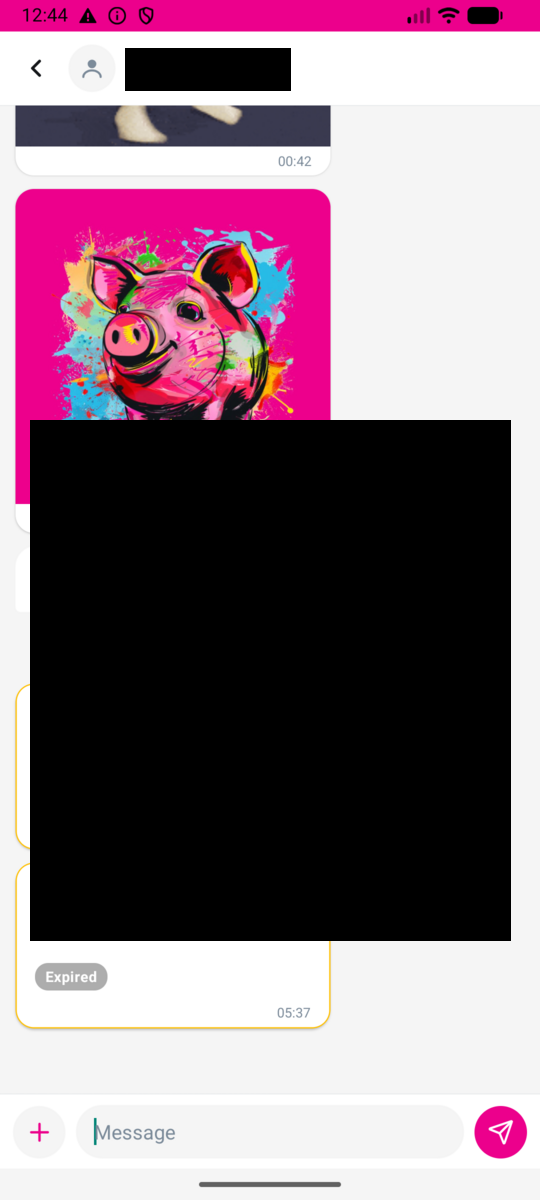
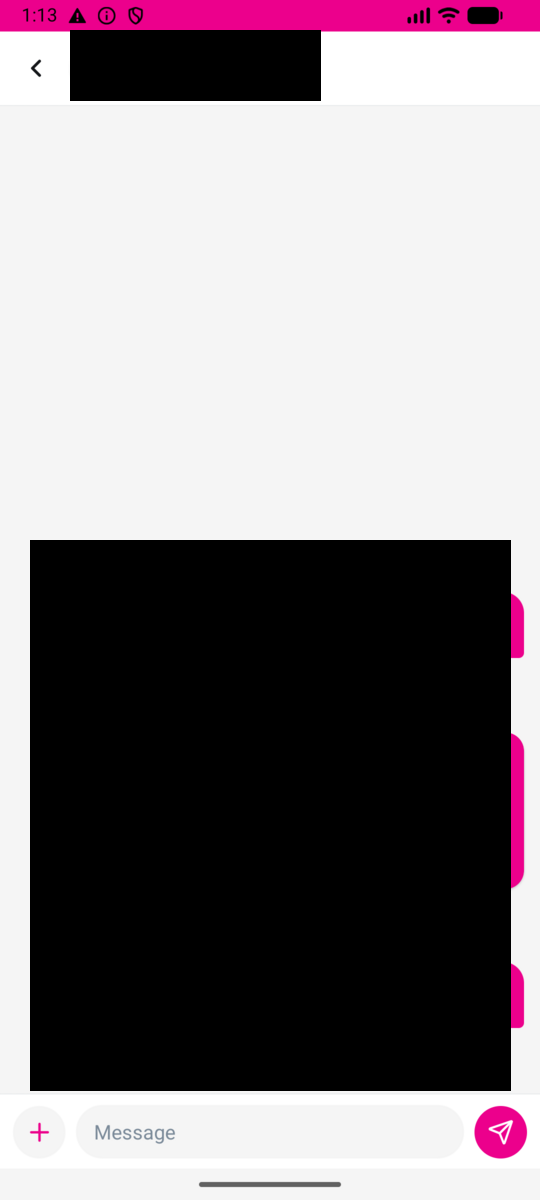
refactor(messaging): panel sits ABOVE composer (no keyboard-height guessing)
Per design feedback: don't guess a default keyboard height. Instead the
attach panel renders ABOVE the text input and is intrinsic-sized (the
4-col grid drives its height). Opening the panel dismisses the keyboard
if it was up; tapping the input closes the panel and the keyboard takes
over again naturally. No `lastKbHeight` cache, no `useReanimatedKeyboardAnimation`,
no spacer math, no first-time-fit jitter.

Layout (inside the existing KeyboardStickyView):

  [ AttachPanel (when open) ]   ← intrinsic height, sits above
  [ + | input | send ]          ← composer always at the bottom

The sticky view's total height = composer (closed) or composer + panel
(open). Opening dismisses the IME so the stack never has to also
accommodate the keyboard. Hardware-back closes the panel. Input focus
closes the panel.

Code changes (`src/screens/ConversationScreen.tsx`):
- Drop imports: `useReanimatedKeyboardAnimation`, `RAnimated`,
  `useAnimatedStyle`, `useSharedValue`.
- Drop state: `lastKbHeight`, `panelOpenSV`, `kbHeightSV`,
  `attachSpacerStyle`.
- Simplify `openAttachPanel` to `setAttachPanelOpen(true) +
  KeyboardController.dismiss()`.
- Move `<AttachPanel>` above the composer row inside the same
  KeyboardStickyView.

`src/components/AttachPanel.tsx`:
- Remove `flex: 1` from the panel style — let it size to content.
- Add a top hairline divider so the boundary with the message list
  above is visible.

Trade-off: when the panel is open, the bottom slice of the message
[…]

diff --git a/src/screens/ConversationScreen.tsx b/src/screens/ConversationScreen.tsx
@@ -17,12 +17,7 @@ import {
   Linking,
   StyleSheet,
 } from 'react-native';
-import {
-  KeyboardController,
-  KeyboardStickyView,
-  useReanimatedKeyboardAnimation,
-} from 'react-native-keyboard-controller';
-import RAnimated, { useAnimatedStyle, useSharedValue } from 'react-native-reanimated';
+import { KeyboardController, KeyboardStickyView } from 'react-native-keyboard-controller';
 import Svg, { Circle, Path } from 'react-native-svg';
 import { Zap, Send, Plus, MapPin, ArrowDown } from 'lucide-react-native';
 import { Image as ExpoImage } from 'expo-image';
@@ -270,40 +265,23 @@ const ConversationScreen: React.FC = () => {
   const [sharedProfiles, setSharedProfiles] = useState<Record<string, NostrProfile | null>>({});
   const [attachPanelOpen, setAttachPanelOpen] = useState(false);
 
-  // WhatsApp-style "panel replaces keyboard" mechanics. We cache the
-  // last real keyboard height before dismissing the IME so the panel
-  // can slide into the *exact* slot the keyboard occupied. The
-  // `useReanimatedKeyboardAnimation` shared value drives the spacer
-  // height every frame; a max() clamp against `lastKbHeight` while
-  // the panel is open keeps the spacer pinned during the IME's
-  // dismiss animation, so the panel never flickers in.
-  const DEFAULT_PANEL_HEIGHT = 300;
-  const lastKbHeight = useSharedValue(DEFAULT_PANEL_HEIGHT);
-  const panelOpenSV = useSharedValue(false);
-  const { height: kbHeightSV } = useReanimatedKeyboardAnimation();
-
+  // Inline attach panel sits ABOVE the text input inside the same
+  // KeyboardStickyView. Opening dismisses the IME so we never have to
+  // stack panel + composer + keyboard. Closing happens on input focus
+  // (so the keyboard naturally takes back over) or hardware back.
+  // No height guessing — the 4-col grid is intrinsic-sized.
   const openAttachPanel = useCallback(() => {
-    const s = KeyboardController.state();
-    if (s?.height) lastKbHeight.value = s.height;
-    panelOpenSV.value = true;
     setAttachPanelOpen(true);
-    // Dismiss without `keepFocus`: we want the TextInput to fully drop
-    // focus so the next user tap re-fires its `onFocus` handler — which
-    // is what brings the keyboard back. With `keepFocus:true` the input
-    // stays focused-but-hidden, so re-tapping it is a no-op and the
-    // keyboard never reappears.
     KeyboardController.dismiss();
-  }, [lastKbHeight, panelOpenSV]);
+  }, []);
 
   const closeAttachPanel = useCallback(() => {
-    panelOpenSV.value = false;
     setAttachPanelOpen(false);
-  }, [panelOpenSV]);
+  }, []);
 
   // Android hardware-back: when the attach panel is open, swallow the
   // back press and close the panel instead of letting it bubble up to
-  // the navigator (which would exit the conversation entirely — see
-  // WhatsApp's behaviour).
+  // the navigator (which would exit the conversation entirely).
   useEffect(() => {
     if (!attachPanelOpen) return;
     const sub = BackHandler.addEventListener('hardwareBackPress', () => {
@@ -312,12 +290,6 @@ const ConversationScreen: React.FC = () => {
     });
     return () => sub.remove();
   }, [attachPanelOpen, closeAttachPanel]);
-
-  const attachSpacerStyle = useAnimatedStyle(() => {
-    const kb = Math.abs(kbHeightSV.value);
-    const target = panelOpenSV.value ? Math.max(kb, lastKbHeight.value) : kb;
-    return { height: target };
-  });
   const [invoiceSheetOpen, setInvoiceSheetOpen] = useState(false);
   const [contactPickerOpen, setContactPickerOpen] = useState(false);
   const [gifPickerOpen, setGifPickerOpen] = useState(false);
@@ -1422,6 +1394,44 @@ const ConversationScreen: React.FC = () => {
             pad for visual breathing room between the inputs and
             the composer's own bottom border. */}
         <KeyboardStickyView offset={{ closed: -Math.max(insets.bottom, 0), opened: 0 }}>
+          {/* Inline attach panel — renders ABOVE the composer row when
+              open. Its intrinsic height (4-col grid + paddings) drives
+              the sticky view's total height, so the composer + panel
+              together rise to sit at the screen bottom. Opening the
+              panel dismisses the IME (see openAttachPanel) so we never
+              have to stack panel + composer + keyboard. */}
+          {attachPanelOpen ? (
+            <AttachPanel
+              onShareLocation={handleShareLocation}
+              onSendImage={handlePickAndSendImage}
+              onTakePhoto={handleTakeAndSendPhoto}
+              onSendZap={
+                lightningAddress
+                  ? () => {
+                      closeAttachPanel();
+                      setSendSheetOpen(true);
+                    }
+                  : undefined
+              }
+              onSendInvoice={() => {
+                closeAttachPanel();
+                setInvoiceSheetOpen(true);
+              }}
+              onShareContact={() => {
+                // Picker opens over the conversation; don't close the
+                // panel until the user actually picks (or cancels).
+                setContactPickerOpen(true);
+              }}
+              onSendGif={
+                isGifConfigured()
+                  ? () => {
+                      // GifPickerSheet opens over the panel.
+                      setGifPickerOpen(true);
+                    }
+                  : undefined
+              }
+            />
+          ) : null}
           <View style={[styles.composer, { paddingBottom: 8 }]}>
             <TouchableOpacity
               style={styles.composerAttachButton}
@@ -1462,46 +1472,6 @@ const ConversationScreen: React.FC = () => {
               )}
             </TouchableOpacity>
           </View>
-          {/* WhatsApp-style attach panel — sits in the spacer below the
-              composer row inside the same KeyboardStickyView so it
-              animates as one unit. The spacer height is a Reanimated
-              max() of the live keyboard height and the cached panel
-              height, so swapping keyboard ↔ panel never collapses
-              and never flickers. */}
-          <RAnimated.View style={attachSpacerStyle}>
-            {attachPanelOpen ? (
-              <AttachPanel
-                onShareLocation={handleShareLocation}
-                onSendImage={handlePickAndSendImage}
-                onTakePhoto={handleTakeAndSendPhoto}
-                onSendZap={
-                  lightningAddress
-                    ? () => {
-                        closeAttachPanel();
-                        setSendSheetOpen(true);
-                      }
-                    : undefined
-                }
-                onSendInvoice={() => {
-                  closeAttachPanel();
-                  setInvoiceSheetOpen(true);
-                }}
-                onShareContact={() => {
-                  // Picker opens over the conversation; don't close the
-                  // panel until the user actually picks (or cancels).
-                  setContactPickerOpen(true);
-                }}
-                onSendGif={
-                  isGifConfigured()
-                    ? () => {
-                        // GifPickerSheet opens over the panel.
-                        setGifPickerOpen(true);
-                      }
-                    : undefined
-                }
-              />
-            ) : null}
-          </RAnimated.View>
         </KeyboardStickyView>
       </View>
       <GifPickerSheet

diff --git a/src/components/AttachPanel.tsx b/src/components/AttachPanel.tsx
@@ -132,11 +132,17 @@ const AttachPanel: React.FC<Props> = ({
 const createStyles = (colors: Palette) =>
   StyleSheet.create({
     panel: {
-      flex: 1,
+      // Intrinsic-sized: the 4-col grid drives the panel's height, so
+      // we don't have to guess a keyboard height to fit. Sits above
+      // the composer inside KeyboardStickyView; opening it dismisses
+      // the IME (handled in ConversationScreen) so the panel + composer
+      // stack never has to also accommodate the keyboard.
       backgroundColor: colors.surface,
       paddingHorizontal: 16,
       paddingTop: 16,
       paddingBottom: 8,
+      borderTopWidth: StyleSheet.hairlineWidth,
+      borderTopColor: colors.divider,
     },
     grid: {
       flexDirection: 'row',
